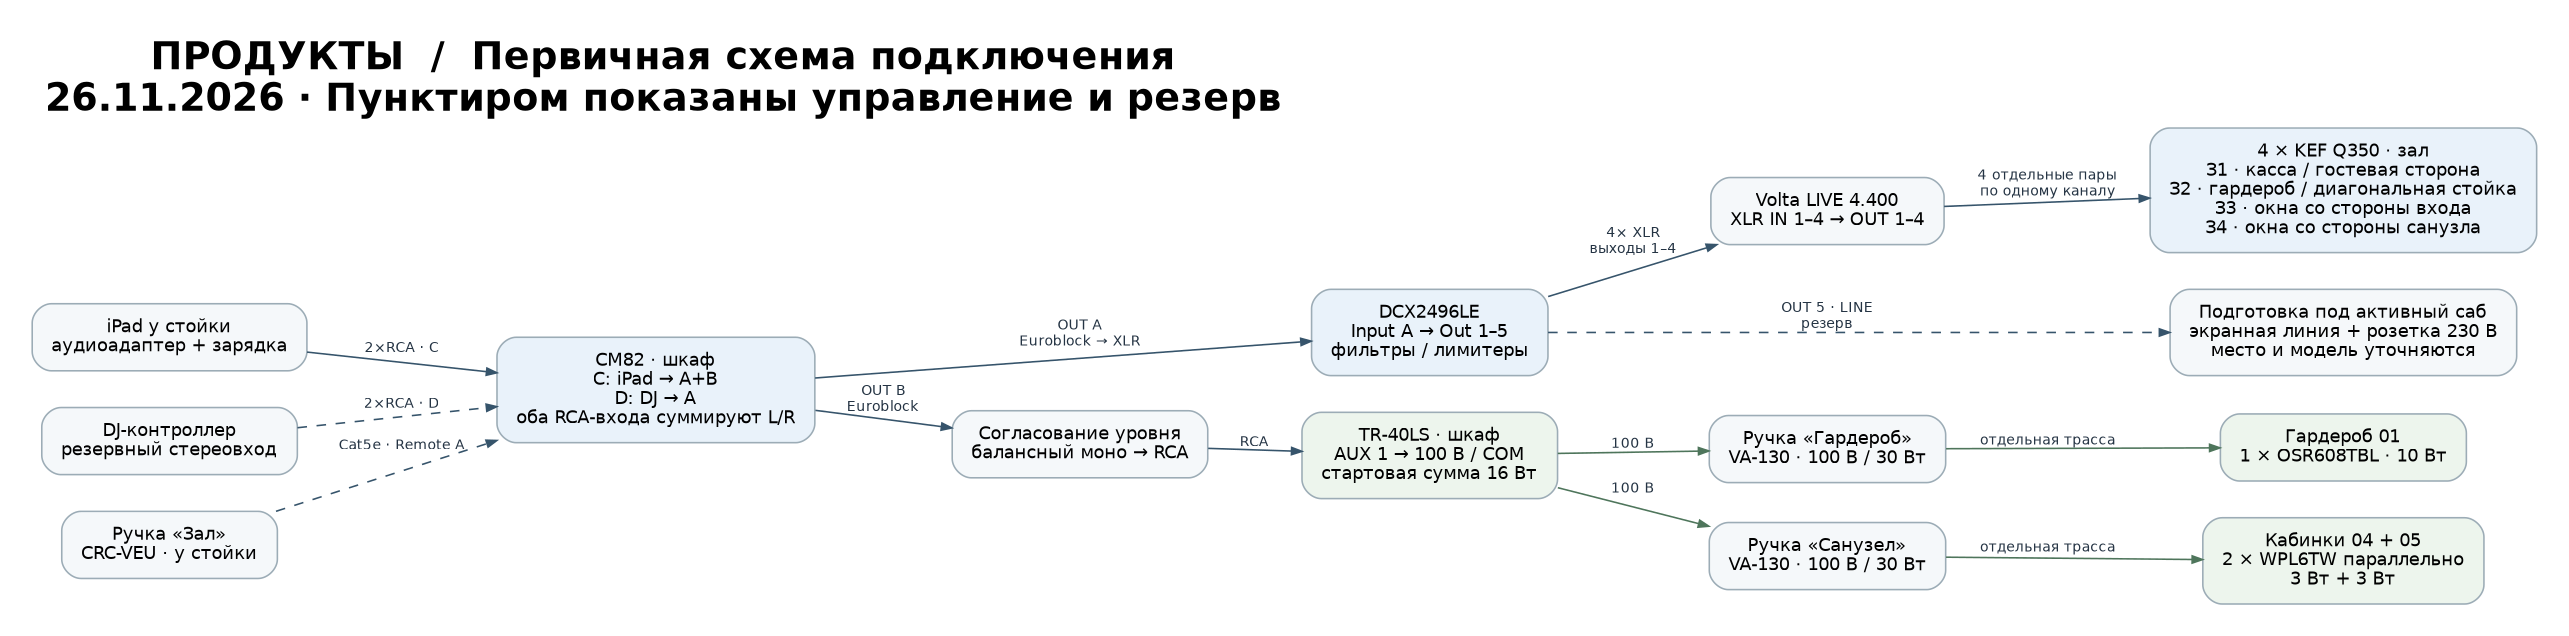
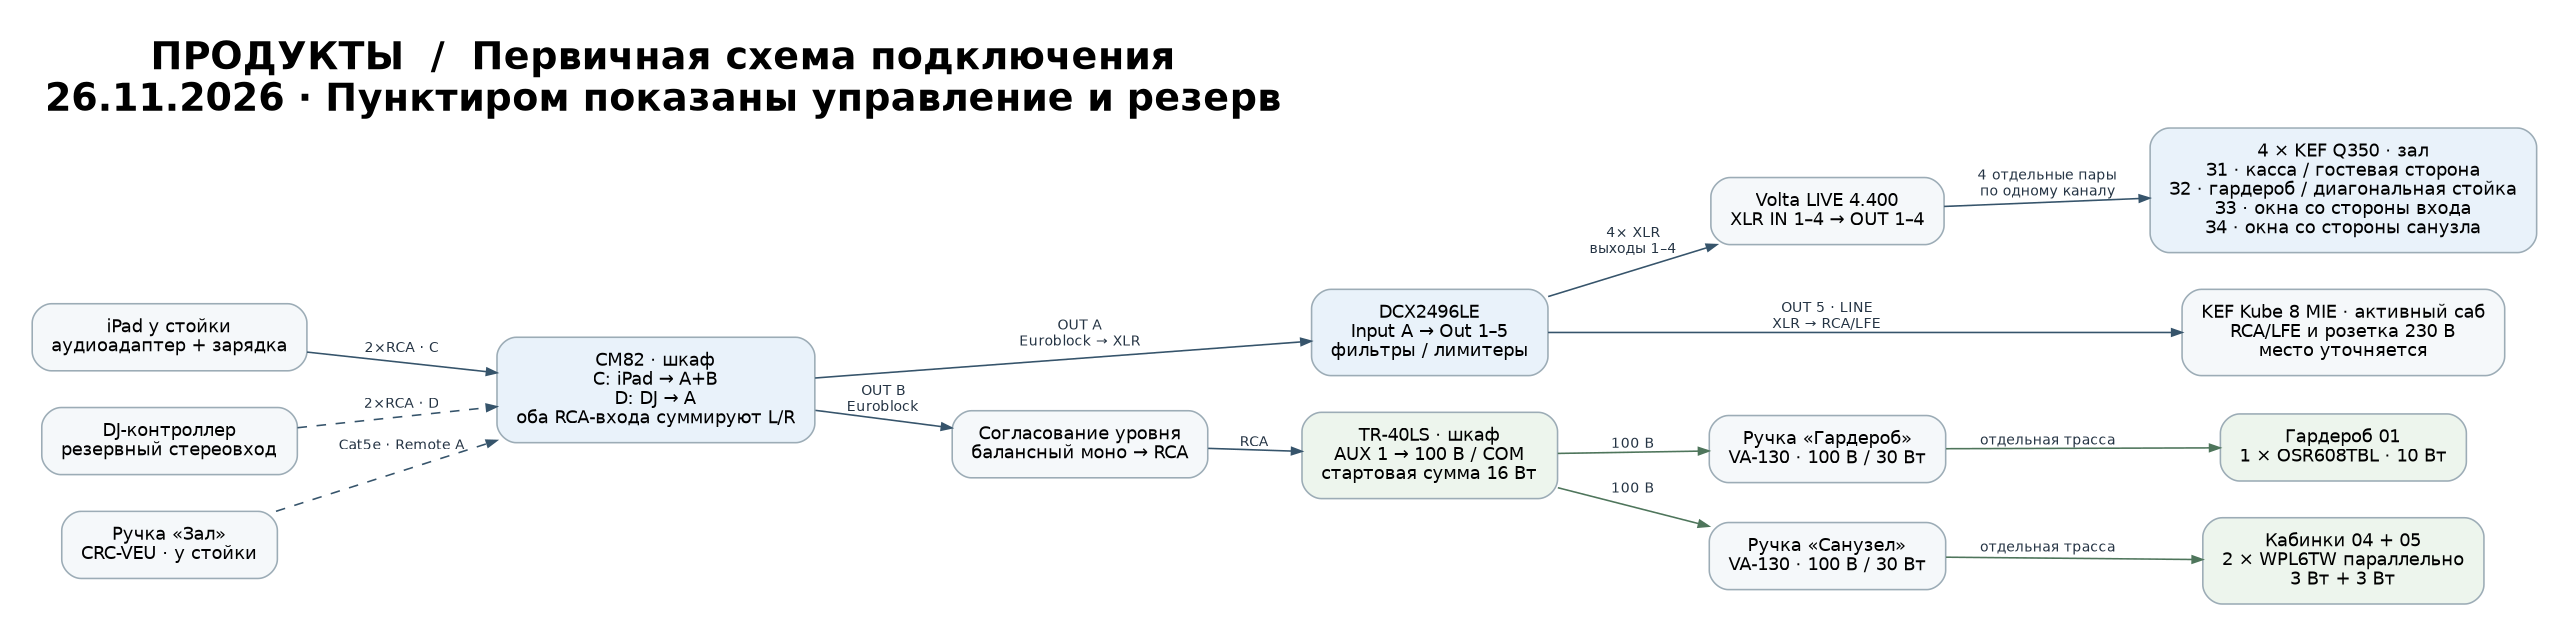
Упростить смету подвесов и включить сабвуфер KEF

Changed region(s): [[0.8408, 0.478, 0.9965, 0.5676], [0.6851, 0.5079, 0.7474, 0.5377]]

diff --git a/produkty/signal-flow.md b/produkty/signal-flow.md
@@ -1,6 +1,6 @@
 # «Продукты» · первичная схема подключения
 
-26 ноября 2026 года. Четыре KEF Q350 в зале. Приобретённый сабвуфер в базовой комплектации отсутствует. Позиции новой аппаратуры указаны для закупочного расчёта и проверки на стенде.
+26 ноября 2026 года. Четыре KEF Q350 в зале. В базовую комплектацию входит активный KEF Kube 8 MIE. Позиции новой аппаратуры указаны для закупочного расчёта и проверки на стенде.
 
 [Схема PDF](visuals/signal-flow.pdf) · [Схема PNG](visuals/signal-flow.png) · [План точек З1–З4](placement.png) · [Смета и допущения](budget-2026-11-26.md)
 
@@ -13,30 +13,30 @@
 | Зал 02 | Четыре Q350 по углам. З1 со стороны кассы, З2 со стороны гардероба, З3 у окон со стороны входа, З4 у окон со стороны санузла. Четыре независимые пары от Volta. |
 | Вход 01 | Одна купленная OSR608TBL у гардероба. |
 | Кабинки 04 и 05 | Две купленные WPL6TW. Тамбур 03 без колонки. |
-| Будущая точка сабвуфера | Отдельная экранированная балансная линия от шкафа и розетка 230 В. Фактическое место и тип входа зависят от выбора саба. |
+| Точка сабвуфера | KEF Kube 8 MIE у стойки, положение уточняется по месту. Отдельная экранированная балансная линия от шкафа и розетка 230 В. |
 
 ## Входы и управление
 
 1. iPad → проводной адаптер с питанием и ЦАП → стерео RCA вход C CM82. На CM82 вход C остаётся на A и дополнительно назначается на B. RCA-вход суммирует L/R штатно. Тип адаптера подтвердить по модели планшета. Кабель от iPad держать коротким. Если шкаф далеко, предусмотреть парный линейный интерфейс для балансной передачи.
 2. DJ → отдельный стереолинейный вход D на CM82. Изначально D назначен на A. Перед сетом поставить iPad на паузу, затем открыть D. Маршрутизацию DJ в малые зоны можно включить отдельно, как описано ниже.
-3. CRC-VEU → Remote A через прямой Cat5e, отдельной линией без сетевого коммутатора. Ручка меняет зал и будущий саб вместе. Две другие ручки работают на отдельных ветках 100 В после TR-40LS.
+3. CRC-VEU → Remote A через прямой Cat5e, отдельной линией без сетевого коммутатора. Ручка меняет зал и сабвуфер вместе. Две другие ручки работают на отдельных ветках 100 В после TR-40LS.
 
 ### Порядок при подключении DJ
 
 В базовой конфигурации при запуске DJ **поставить iPad на паузу** и открыть вход D. Гардероб и санузел при этом молчат. Если заказчику нужна та же DJ-программа в малых зонах, переключатель маршрутизации D можно заранее настроить и на B. Режим «DJ в зале, музыка с iPad в малых зонах» требует отдельного разведения источника, поэтому его в смету этой редакции не включали. Уровни C/D настроить на линейный сигнал с запасом до клиппинга. Проверить режимы входов и отключить приоритет/VOX для музыкальной работы.
 
-## Зал и резерв сабвуфера
+## Зал и сабвуфер
 
 | Откуда | Куда | Линия и настройка |
 |---|---|---|
 | CM82 OUT A | DCX2496LE Input A | Балансный Euroblock → XLR. На CM82 по руководству контакты 1 = горячий, 2 = холодный, 3 = экран. На XLR соответственно 2, 3, 1. Сверить номера на корпусе. |
 | DCX Out 1–4 | Volta XLR In 1–4 | Четыре балансных патча. Назначить Input A на каждый выход. Использовать независимый режим каналов. |
 | Volta Out 1–4 | Q350 З1–З4 | Один канал на одну колонку и одну пару. Привязка 1→З1, 2→З2, 3→З3, 4→З4. Тип силового разъёма и распайку подтвердить по задней панели и инструкции конкретного Volta. Сохранить полярность. |
-| DCX Out 5 | Будущий активный саб | Линейный сигнал после ручки зала. До выбора саба выход заглушён, кабель промаркирован. Розетку предусмотреть независимо от даты покупки. Out 6 свободен. |
+| DCX Out 5 | KEF Kube 8 MIE | Балансная линия от шкафа, короткий переход XLR → RCA/LFE у саба. Распайку и уровни проверить на стенде. Розетка 230 В у точки. Out 6 свободен. |
 
-В [сравнительной схеме](setup-commutation.md) рассмотрен high-level вход саба от канала 4 Volta. Для этой редакции принят отдельный выход DSP: четыре Q350 могут работать с одинаковой фильтрацией, а саб получает свой диапазон и уровень. Это также сохраняет отдельную балансную трассу для будущего сабвуфера.
+В [сравнительной схеме](setup-commutation.md) рассмотрен high-level вход саба от канала 4 Volta. Для этой редакции принят отдельный выход DSP: четыре Q350 могут работать с одинаковой фильтрацией, а саб получает свой диапазон и уровень. Это также сохраняет отдельную балансную трассу для сабвуфера.
 
-У Volta запас мощности выше паспортной рекомендации Q350. Для каждой колонки настроить выходной лимитер DCX по фактическому усилению канала и проверенному напряжению на выходе усилителя. Положение регуляторов Volta после настройки зафиксировать. Порог в dBFS без этой привязки не задаётся. Без саба выходы 1–4 работают в полночастотном режиме с выбранным при наладке защитным фильтром. При установке саба согласовать HPF для зала и LPF для саба, проверить уровни, полярность и задержку.
+У Volta запас мощности выше паспортной рекомендации Q350. Для каждой колонки настроить выходной лимитер DCX по фактическому усилению канала и проверенному напряжению на выходе усилителя. Положение регуляторов Volta после настройки зафиксировать. Порог в dBFS без этой привязки не задаётся. При наладке согласовать HPF для четырёх Q350 и LPF для сабвуфера на DSP, выбрать режим LFE на Kube и проверить уровни, полярность и задержку.
 
 ## Гардероб и санузел
 
@@ -58,3 +58,5 @@
 - [Behringer DCX2496LE](https://behringer.com/en/products/0825-AAC) · [Volta LIVE](https://volta-audio.ru/catalog/usiliteli_mownosti/live/)
 - [TR-40LS](https://www.cvg.ru/catalog/100v-public-address-mikshery-usiliteli/tr40ls/) · [VA-130](https://www.cvg.ru/docs/manuals/CVGAUDIO_VA-series_manual.pdf)
 - [OSR608TBL](https://www.cvg.ru/catalog/products/osr608tbl/) · [WPL6TW](https://www.cvg.ru/catalog/nastennye_shirokopolosnye_publicaddress_akusticheskie/wpl6tw/) · [KEF Q350](https://assets.kef.com/documents/qseries/q2017-product-manual.pdf)
+
+- [Руководство KEF Kube MIE](https://assets.kef.com/product-support/kube-mie-subwoofers/Kube-manual_V13-20240201.pdf)

diff --git a/produkty/SESSION-p2p-produkty.md b/produkty/SESSION-p2p-produkty.md
@@ -55,3 +55,5 @@ iPad и резервный DJ-вход → микшер → выход зала 
 Проектирование подвеса приостановлено. Сверены [смета](budget-2026-11-26.md) и [первичная схема](signal-flow.md). Четыре Q350 получают четыре независимых лимитируемых канала. В живой смете учтён iPad и сохранены четыре нулевых количества. Сценарий доплат показан отдельно.
 
 Закупочный лист сделан на копии итоговой таблицы «Теплицы». Детализация на 68 строк включает оборудование, шкаф, кабели, монтаж, материалы, подвесы и питание сабвуфера. [Снимок ведомости CSV](budget-procurement-2026-11-26.csv).
+
+В закупочной смете подвес считается одной позицией: 4 × 15 000 ₽. Активный KEF Kube 8 MIE включён в основной комплект, итог после обновления 507 145 ₽. Статус «Оценка» обозначает предварительную цену или количество, включённые в итог.

diff --git a/produkty/README.md b/produkty/README.md
@@ -4,7 +4,7 @@
 
 ## Файлы проекта
 
-- [Детальная закупочная ведомость, 68 позиций](budget-procurement-2026-11-26.csv). База с резервами 426 345 ₽, с сабвуфером и переходником 477 135 ₽. Цены совпадающих позиций из итоговой закупочной сметы «Теплицы».
+- [Детальная закупочная ведомость, 60 позиций](budget-procurement-2026-11-26.csv). Итого 507 145 ₽ с KEF Kube 8 MIE, четырьмя подвесами и предварительными оценками.
 - [Смета от 26.11.2026](budget-2026-11-26.md) · [Ведомость CSV](budget-2026-11-26.csv)
 - [Схема подключения по узлам](signal-flow.md) · [PDF](visuals/signal-flow.pdf)
 - [Предыдущая смета CSV](preliminary-budget.csv)
